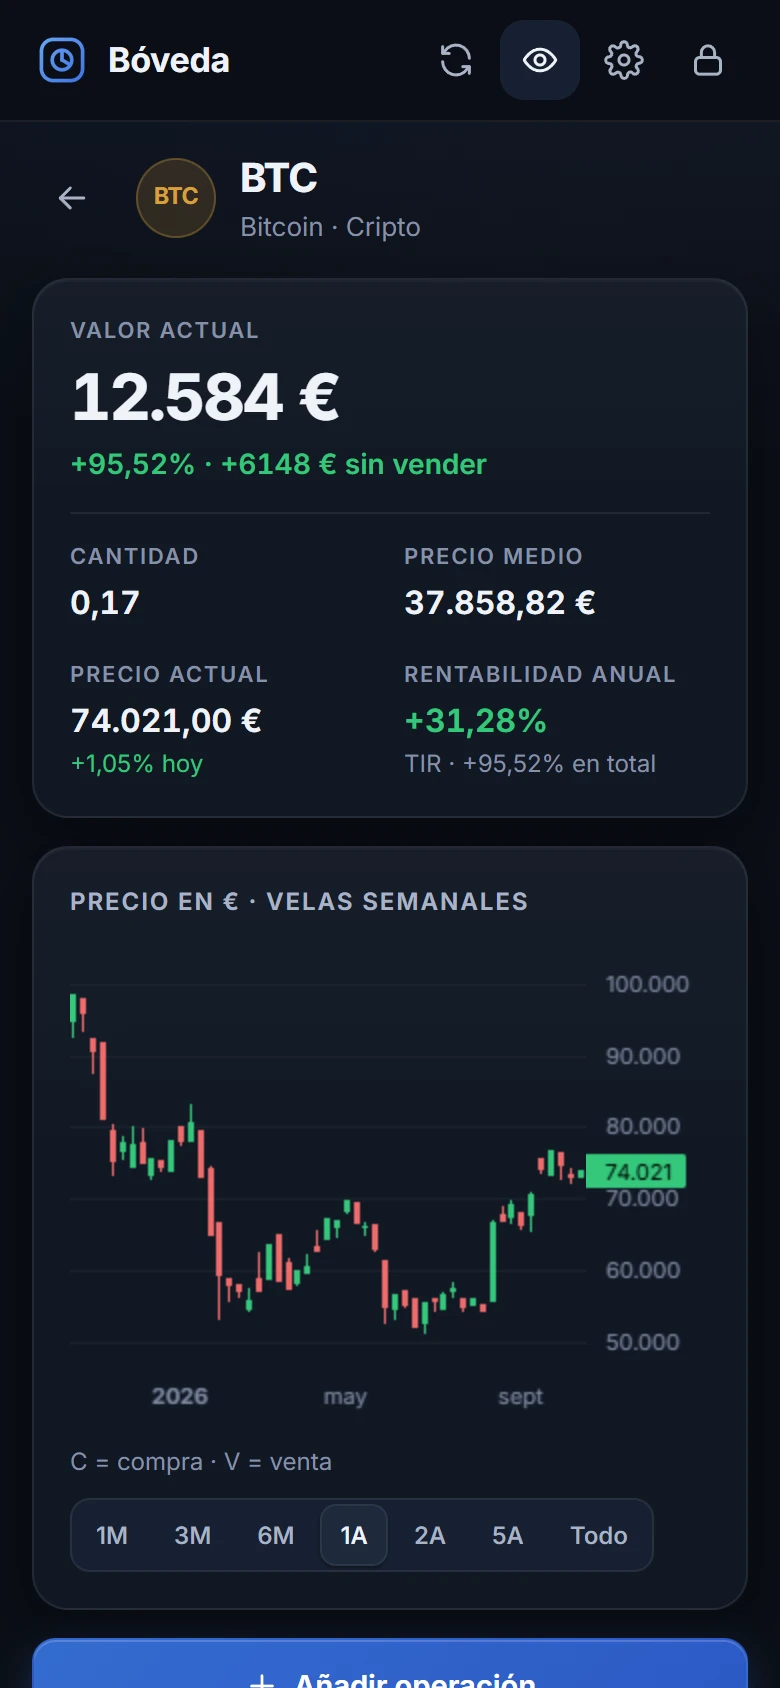
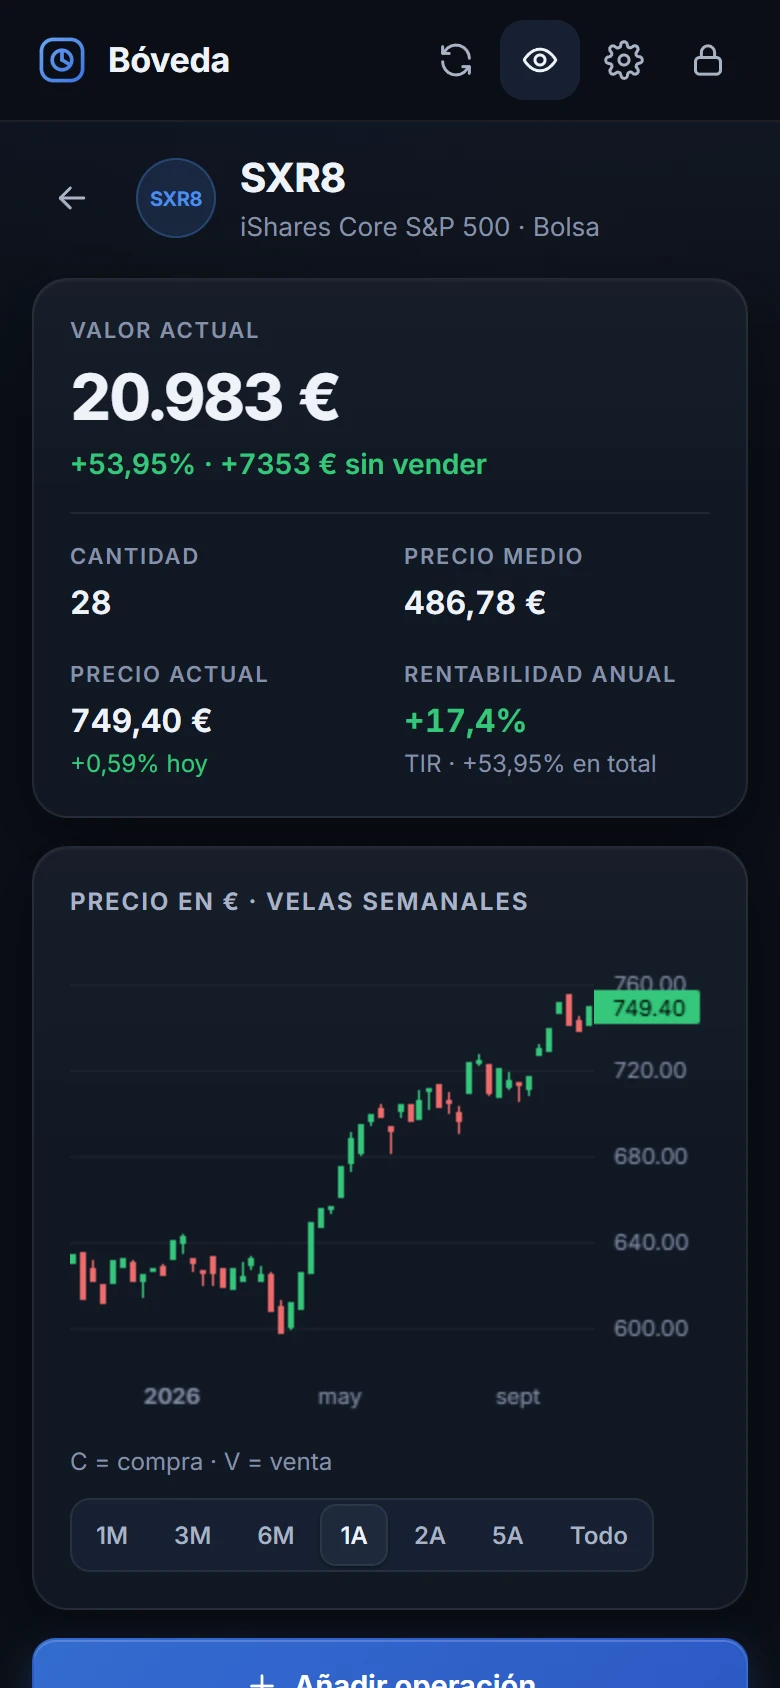
Bóveda: captura con un fondo del S&P 500 en lugar de Bitcoin

diff --git a/en/index.html b/en/index.html
@@ -148,7 +148,7 @@
       <div class="cards">
         <article class="card reveal">
           <div class="card-shot shot-vault">
-            <figure class="phone"><img src="../img/boveda/2-activo.webp" alt="Bitcoin detail screen in Bóveda with its candlestick chart" loading="lazy" /></figure>
+            <figure class="phone"><img src="../img/boveda/2-activo.webp" alt="Detail screen of an S&amp;P 500 fund in Bóveda with its candlestick chart" loading="lazy" /></figure>
           </div>
           <div class="card-body">
             <div class="card-top"><h3>Bóveda</h3><span class="tag mono">Finance</span></div>

diff --git a/index.html b/index.html
@@ -147,7 +147,7 @@
       <div class="cards">
         <article class="card reveal">
           <div class="card-shot shot-vault">
-            <figure class="phone"><img src="img/boveda/2-activo.webp" alt="Ficha de Bitcoin en Bóveda con su gráfica de velas" loading="lazy" /></figure>
+            <figure class="phone"><img src="img/boveda/2-activo.webp" alt="Ficha de un fondo del S&amp;P 500 en Bóveda con su gráfica de velas" loading="lazy" /></figure>
           </div>
           <div class="card-body">
             <div class="card-top"><h3>Bóveda</h3><span class="tag mono">Finanzas</span></div>
